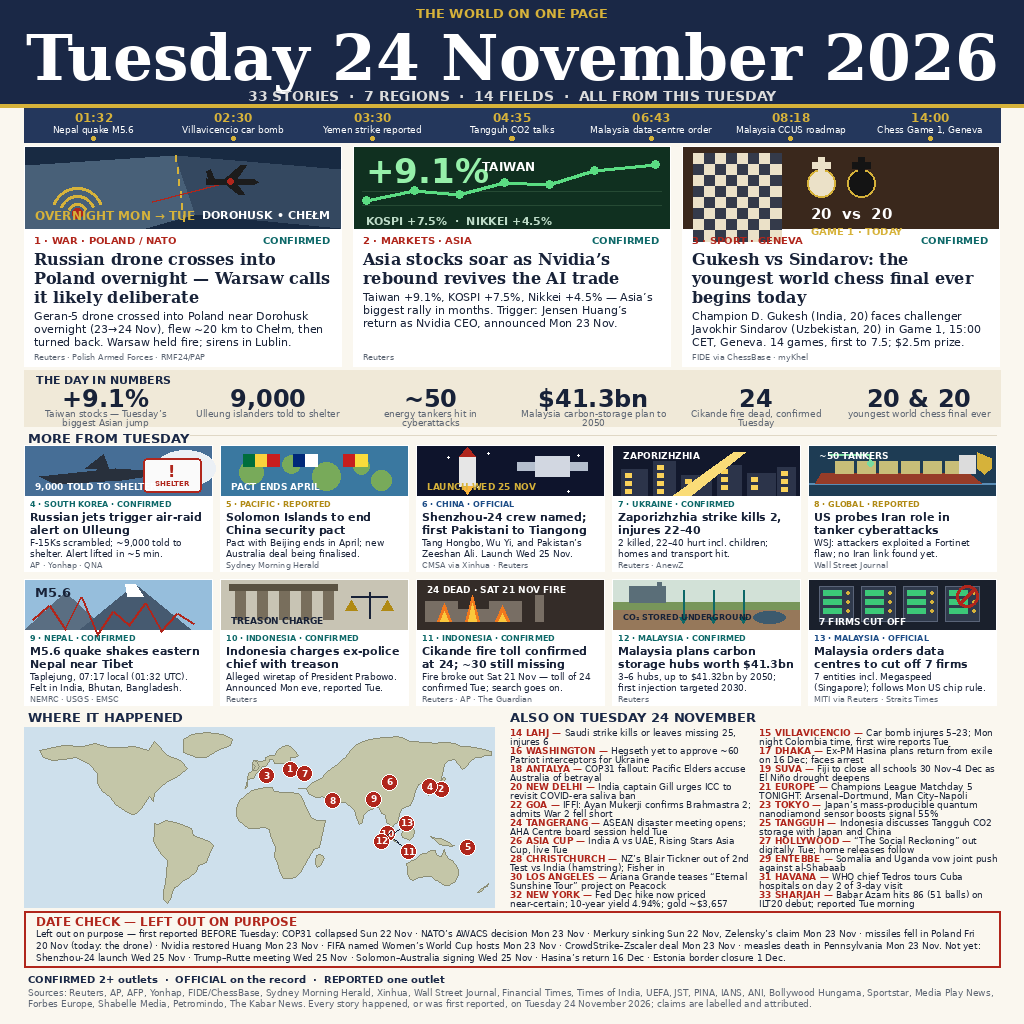
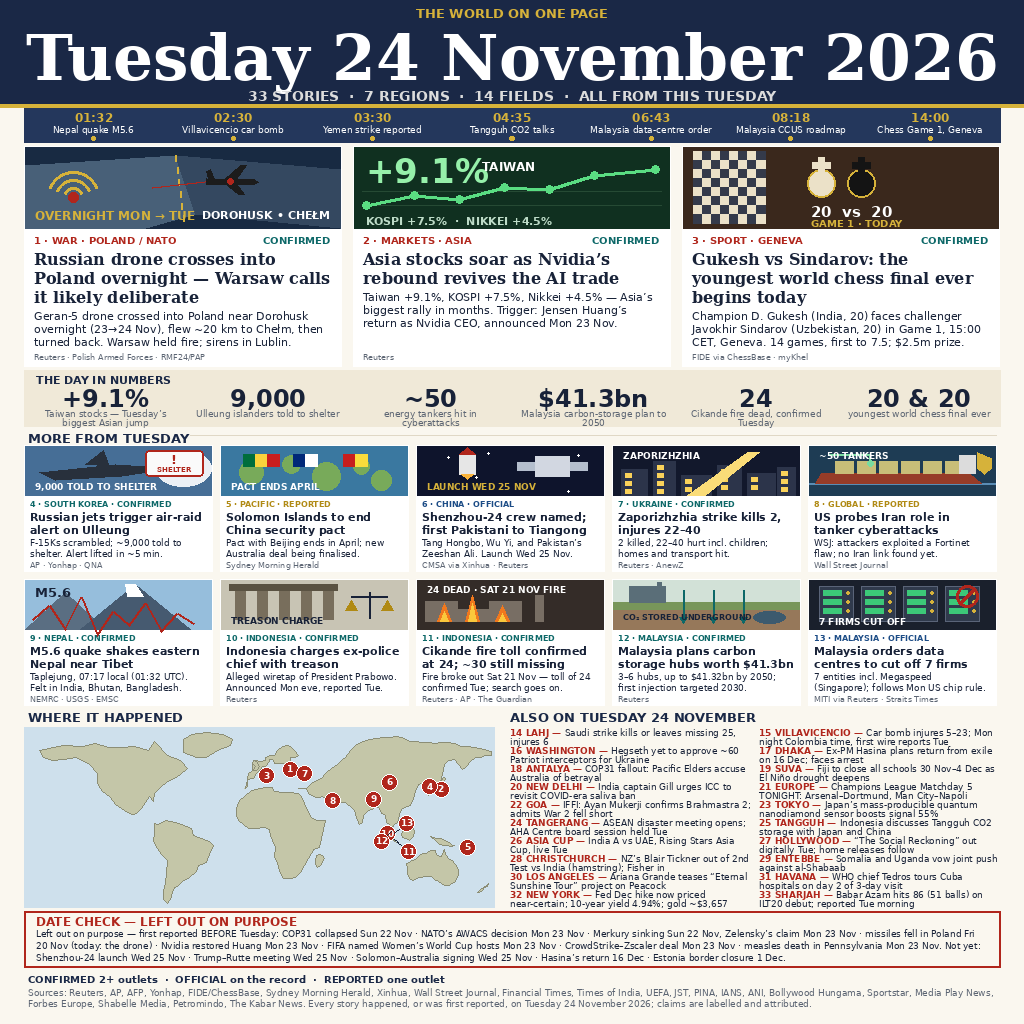
Fix 6 visual defects in entry picture (hero/minor caption collisions)
- H3 chess: shrink board 11->9px cells so it stays inside the picture
  box; move '20 vs 20' and 'GAME 1 TODAY' up (header '3' was clipped
  by the overflowing board).
- M4 jet: move alert phone box up so it no longer covers the end of
  the '9,000 TOLD TO SHELTER' caption; jet shifted up 4px.
- H1 drone: raise/shorten the red flight trail and move the siren
  dot+arcs up so nothing red touches the 'OVERNIGHT MON -> TUE'
  caption.
- H2 chart: lower the chart line 5px so it sits clearly below the
  TAIWAN label.
- M6 rocket: shorten rocket body + flame so they end above the
  'LAUNCH WED 25 NOV' caption.
- M7 citynight: shift the searchlight beam right so it stays clear
  of the 'ZAPORIZHZHIA' caption.
No facts, headlines, dates or story data changed; layout height
still 1022/1024, entry.png 219946 bytes, render deterministic.

diff --git a/render.py b/render.py
@@ -386,8 +386,9 @@ def scene_drone(d, box):
         d.line([(x0 + 150 + (yy - y0) * 0.12, yy),
                 (x0 + 150 + (yy - y0) * 0.12, yy + 6)], fill=GOLD_L, width=2)
     # drone silhouette with a red trail: slim fuselage, swept delta wings
+    # (trail kept high and short so it stays well clear of the caption row)
     cx, cy = x0 + 205, y0 + 34
-    d.line([(cx - 78, cy + 20), (cx - 8, cy + 2)], fill=RED, width=2)
+    d.line([(cx - 78, cy + 6), (cx - 8, cy - 2)], fill=RED, width=2)
     d.polygon([(cx - 24, cy - 3), (cx + 24, cy - 2), (cx + 28, cy + 1),
                (cx + 24, cy + 3), (cx - 24, cy + 3)], fill=(28, 28, 28))
     d.polygon([(cx - 6, cy - 2), (cx + 6, cy - 2), (cx + 16, cy - 16),
@@ -397,8 +398,8 @@ def scene_drone(d, box):
     d.polygon([(cx - 22, cy - 2), (cx - 16, cy - 2), (cx - 20, cy - 12),
                (cx - 24, cy - 10)], fill=(28, 28, 28))
     d.ellipse([cx - 3, cy - 3, cx + 3, cy + 3], fill=RED)
-    # siren arcs over Lublin
-    sx, sy = x0 + 52, y0 + 66
+    # siren arcs over Lublin (kept high so the red dot clears the caption)
+    sx, sy = x0 + 48, y0 + 50
     for r in (10, 18, 26):
         d.arc([sx - r, sy - r, sx + r, sy + r], 200, 340, fill=GOLD_L, width=3)
     d.ellipse([sx - 5, sy - 5, sx + 5, sy + 5], fill=RED)
@@ -413,9 +414,10 @@ def scene_chart(d, box):
     d.rectangle(box, fill=(16, 48, 32))
     for gy in range(y0 + 44, y1 - 16, 14):
         d.line([(x0 + 8, gy), (x1 - 8, gy)], fill=(38, 74, 52), width=1)
-    pts = [(x0 + 12, y1 - 28), (x0 + 60, y1 - 38), (x0 + 105, y1 - 34),
-           (x0 + 150, y1 - 46), (x0 + 195, y1 - 44), (x0 + 240, y1 - 58),
-           (x1 - 14, y1 - 64)]
+    # chart line lowered 5px so it sits clearly below the TAIWAN label
+    pts = [(x0 + 12, y1 - 23), (x0 + 60, y1 - 33), (x0 + 105, y1 - 29),
+           (x0 + 150, y1 - 41), (x0 + 195, y1 - 39), (x0 + 240, y1 - 53),
+           (x1 - 14, y1 - 59)]
     d.line(pts, fill=(90, 220, 130), width=4)
     for px, py in pts:
         d.ellipse([px - 4, py - 4, px + 4, py + 4], fill=(90, 220, 130))
@@ -428,9 +430,10 @@ def scene_chart(d, box):
 def scene_chess(d, box):
     x0, y0, x1, y1 = box
     d.rectangle(box, fill=(58, 40, 28))
-    # 8x8 board on the left
-    bs = 11
-    bx, by = x0 + 10, y0 + 6
+    # 8x8 board on the left (9px cells so the board stays inside the
+    # picture box and cannot paint over the header line below it)
+    bs = 9
+    bx, by = x0 + 10, y0 + 4
     for r in range(8):
         for c in range(8):
             col = (235, 225, 200) if (r + c) % 2 == 0 else (52, 58, 74)
@@ -442,25 +445,25 @@ def scene_chess(d, box):
                   outline=GOLD_L, width=2)
         d.rectangle([kx - 3, y0 + 10, kx + 3, y0 + 24], fill=col)
         d.rectangle([kx - 9, y0 + 15, kx + 9, y0 + 21], fill=col)
-    d.text((x0 + 128, y0 + 58), "20  vs  20", font=sans_b(15), fill=WHITE)
-    d.text((x0 + 128, y0 + 78), "GAME 1 \u00b7 TODAY", font=sans_b(10),
+    d.text((x0 + 128, y0 + 56), "20  vs  20", font=sans_b(15), fill=WHITE)
+    d.text((x0 + 128, y0 + 70), "GAME 1 \u00b7 TODAY", font=sans_b(10),
            fill=GOLD_L)
 
 
 def scene_jet(d, box):
     x0, y0, x1, y1 = box
     d.rectangle(box, fill=(70, 110, 150))
-    d.ellipse([x0 + 130, y0 + 4, x0 + 190, y0 + 40], fill=(235, 240, 245))
-    # F-15K silhouette
-    d.polygon([(x0 + 14, y0 + 30), (x0 + 90, y0 + 22), (x0 + 150, y0 + 26),
-               (x0 + 96, y0 + 34), (x0 + 30, y0 + 38)], fill=(40, 48, 60))
-    d.polygon([(x0 + 60, y0 + 22), (x0 + 78, y0 + 8), (x0 + 84, y0 + 24)],
+    d.ellipse([x0 + 130, y0 + 4, x0 + 186, y0 + 40], fill=(235, 240, 245))
+    # F-15K silhouette (kept above the caption row)
+    d.polygon([(x0 + 14, y0 + 26), (x0 + 90, y0 + 18), (x0 + 150, y0 + 22),
+               (x0 + 96, y0 + 30), (x0 + 30, y0 + 34)], fill=(40, 48, 60))
+    d.polygon([(x0 + 60, y0 + 18), (x0 + 78, y0 + 4), (x0 + 84, y0 + 20)],
               fill=(40, 48, 60))
-    # phone with an emergency alert
-    d.rounded_rectangle([x0 + 118, y0 + 12, x0 + 176, y0 + 46],
+    # phone with an emergency alert (moved up so it cannot cover the caption)
+    d.rounded_rectangle([x0 + 120, y0 + 4, x0 + 178, y0 + 30],
                         radius=4, fill=(250, 250, 250), outline=RED, width=2)
-    d.text((x0 + 147, y0 + 16), "!", font=sans_b(16), fill=RED, anchor="ma")
-    d.text((x0 + 147, y0 + 33), "SHELTER", font=sans_b(7), fill=RED,
+    d.text((x0 + 149, y0 + 5), "!", font=sans_b(13), fill=RED, anchor="ma")
+    d.text((x0 + 149, y0 + 19), "SHELTER", font=sans_b(7), fill=RED,
            anchor="ma")
     d.text((x0 + 10, y1 - 14), "9,000 TOLD TO SHELTER", font=sans_b(9),
            fill=WHITE)
@@ -487,14 +490,14 @@ def scene_pacific(d, box):
 def scene_rocket(d, box):
     x0, y0, x1, y1 = box
     d.rectangle(box, fill=(14, 20, 44))
-    for sx, sy in ((30, 10), (70, 6), (120, 12), (160, 8), (60, 40), (150, 44)):
+    for sx, sy in ((30, 10), (70, 6), (120, 12), (160, 8), (58, 30), (150, 44)):
         d.ellipse([x0 + sx, y0 + sy, x0 + sx + 2, y0 + sy + 2], fill=WHITE)
-    # Long March rocket
+    # Long March rocket (shortened so body + flame end above the caption)
     rx = x0 + 42
-    d.rectangle([rx, y0 + 10, rx + 16, y0 + 40], fill=(230, 230, 230))
-    d.polygon([(rx, y0 + 10), (rx + 8, y0 + 1), (rx + 16, y0 + 10)],
+    d.rectangle([rx, y0 + 8, rx + 16, y0 + 28], fill=(230, 230, 230))
+    d.polygon([(rx, y0 + 8), (rx + 8, y0 + 1), (rx + 16, y0 + 8)],
               fill=RED)
-    d.polygon([(rx + 2, y0 + 40), (rx + 8, y0 + 48), (rx + 14, y0 + 40)],
+    d.polygon([(rx + 2, y0 + 28), (rx + 8, y0 + 33), (rx + 14, y0 + 28)],
               fill=(250, 180, 60))
     # Tiangong station
     d.rectangle([x0 + 100, y0 + 16, x0 + 170, y0 + 24], fill=(180, 190, 205))
@@ -512,9 +515,9 @@ def scene_citynight(d, box):
         for wy in range(y1 - bh + 4, y1 - 4, 8):
             d.rectangle([x0 + bx + 4, wy, x0 + bx + 10, wy + 4],
                         fill=(250, 210, 90))
-    # searchlight beams
-    d.polygon([(x0 + 60, y1), (x0 + 120, y0 + 6), (x0 + 132, y0 + 6),
-               (x0 + 78, y1)], fill=(250, 220, 120))
+    # searchlight beams (shifted right so the beam stays clear of the caption)
+    d.polygon([(x0 + 74, y1), (x0 + 134, y0 + 6), (x0 + 146, y0 + 6),
+               (x0 + 92, y1)], fill=(250, 220, 120))
     d.text((x0 + 10, y0 + 4), "ZAPORIZHZHIA", font=sans_b(9), fill=WHITE)
 
 
